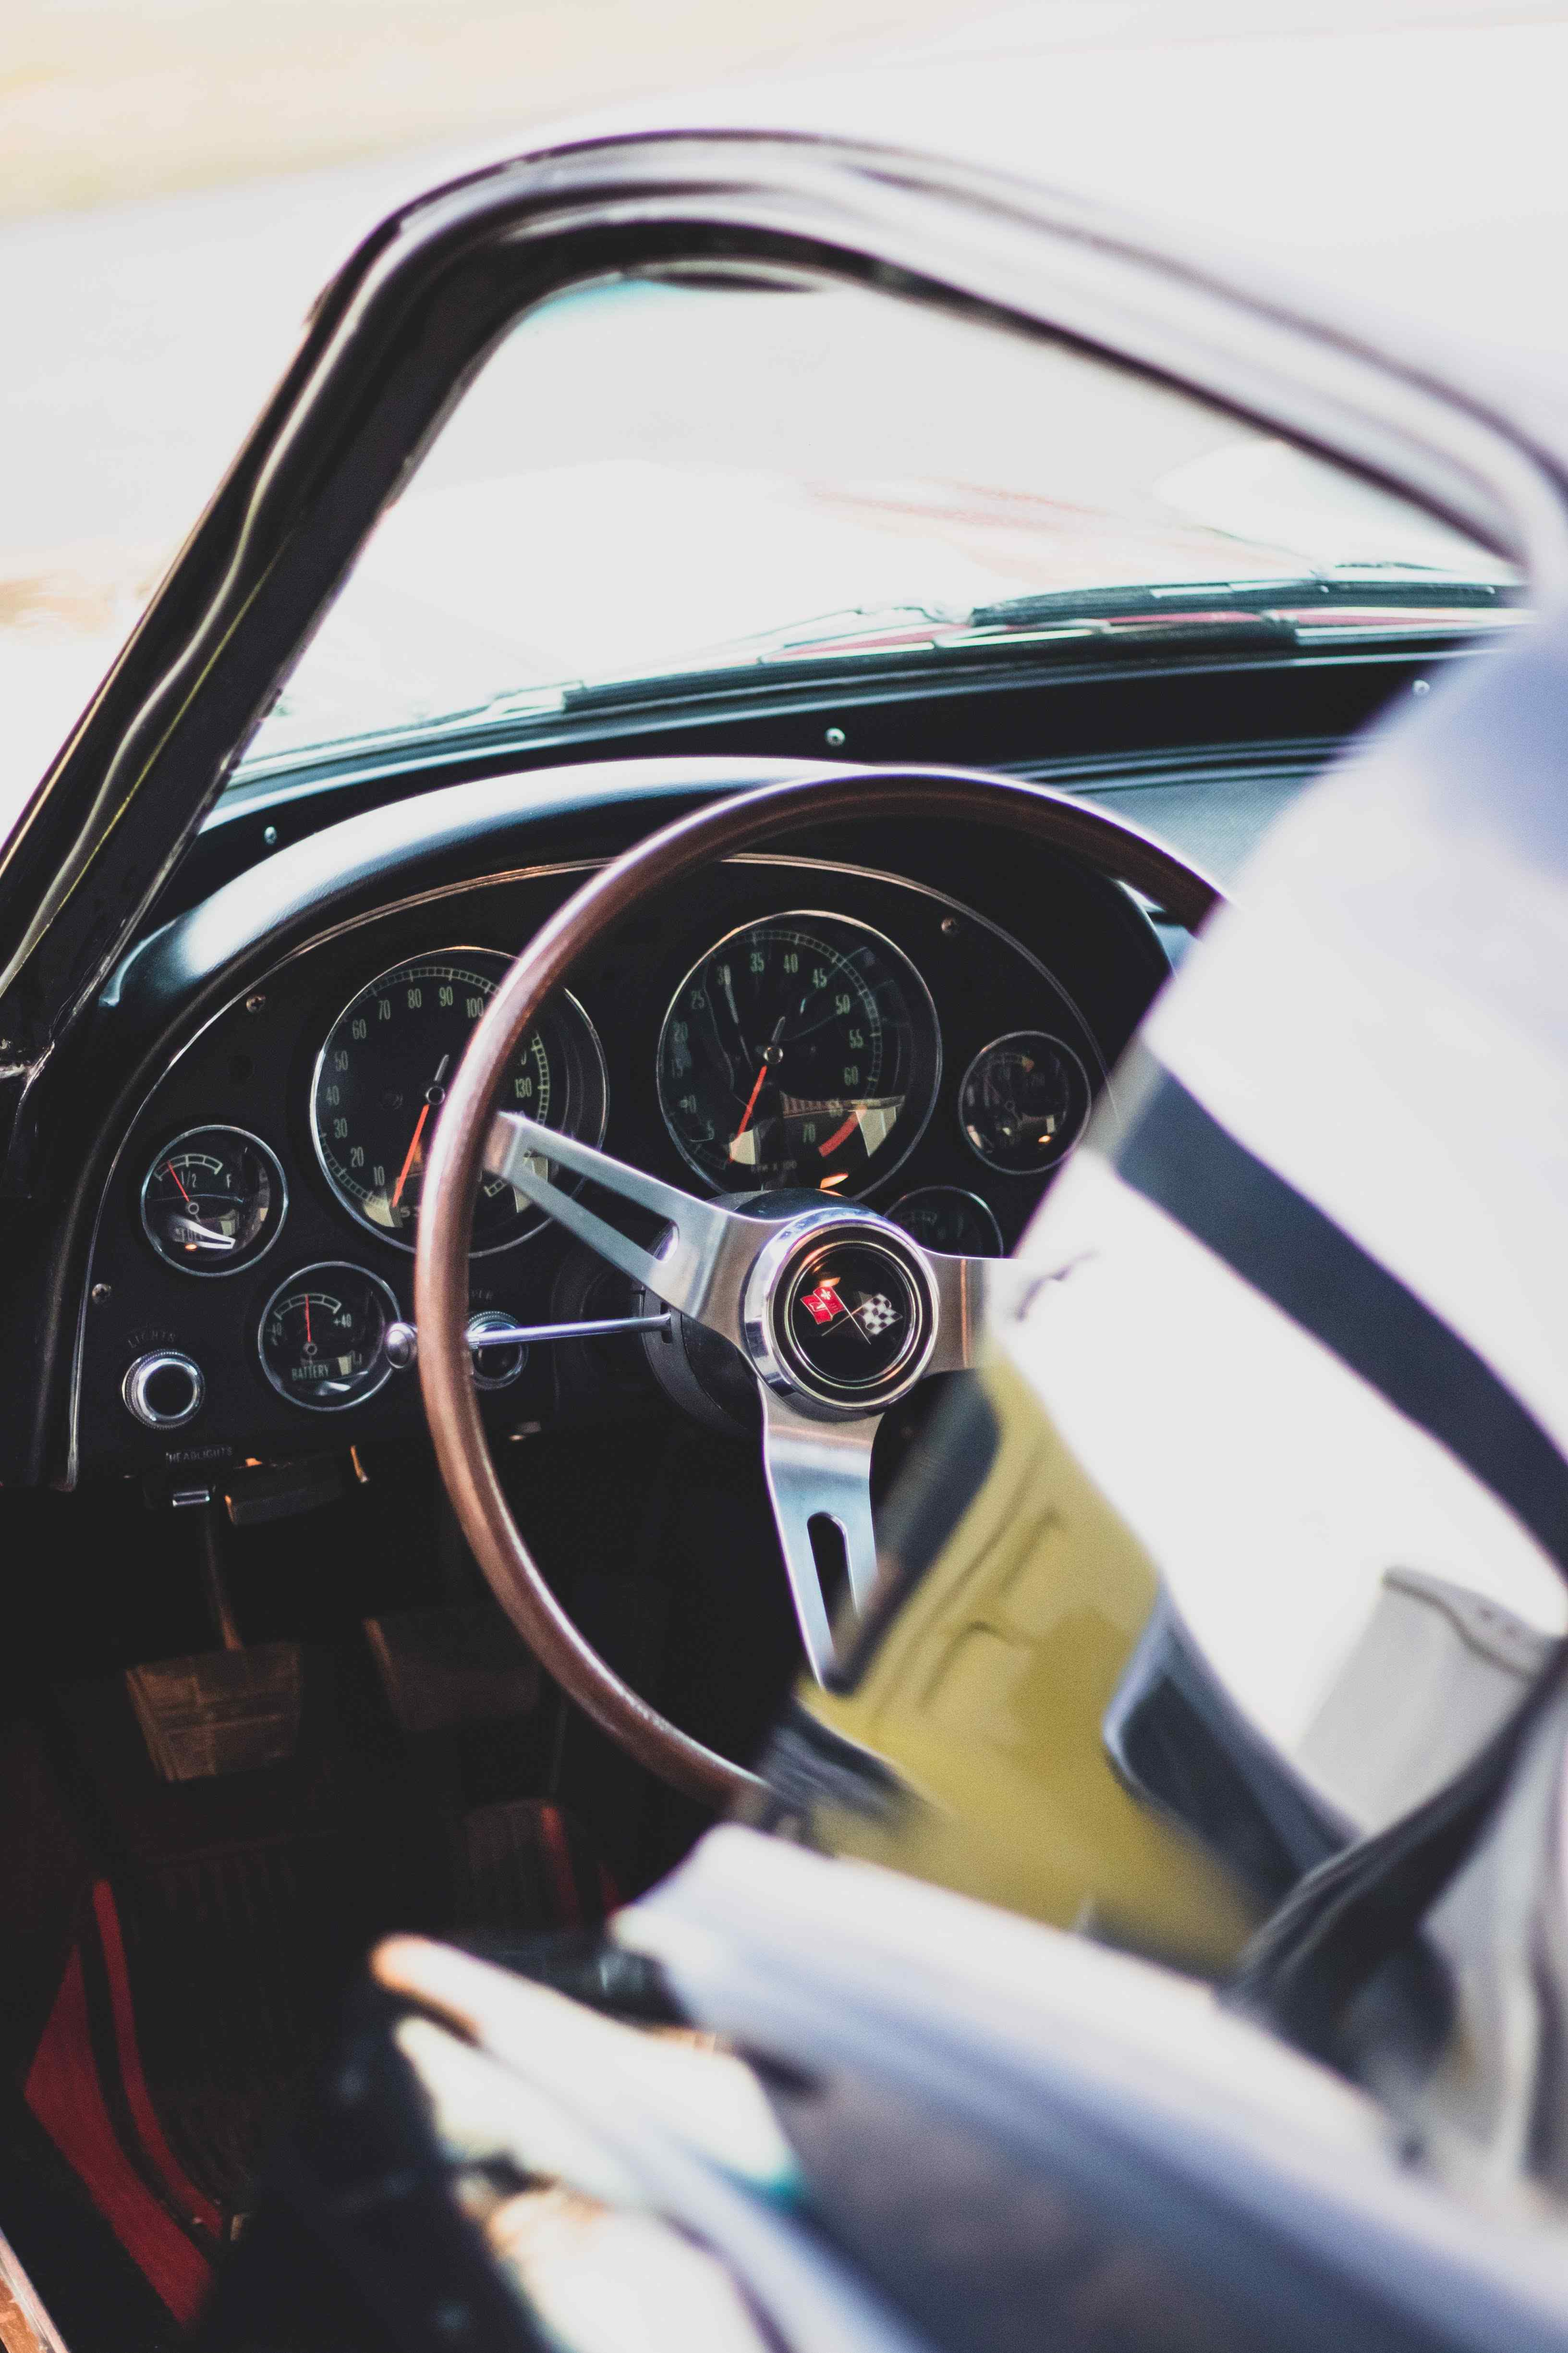
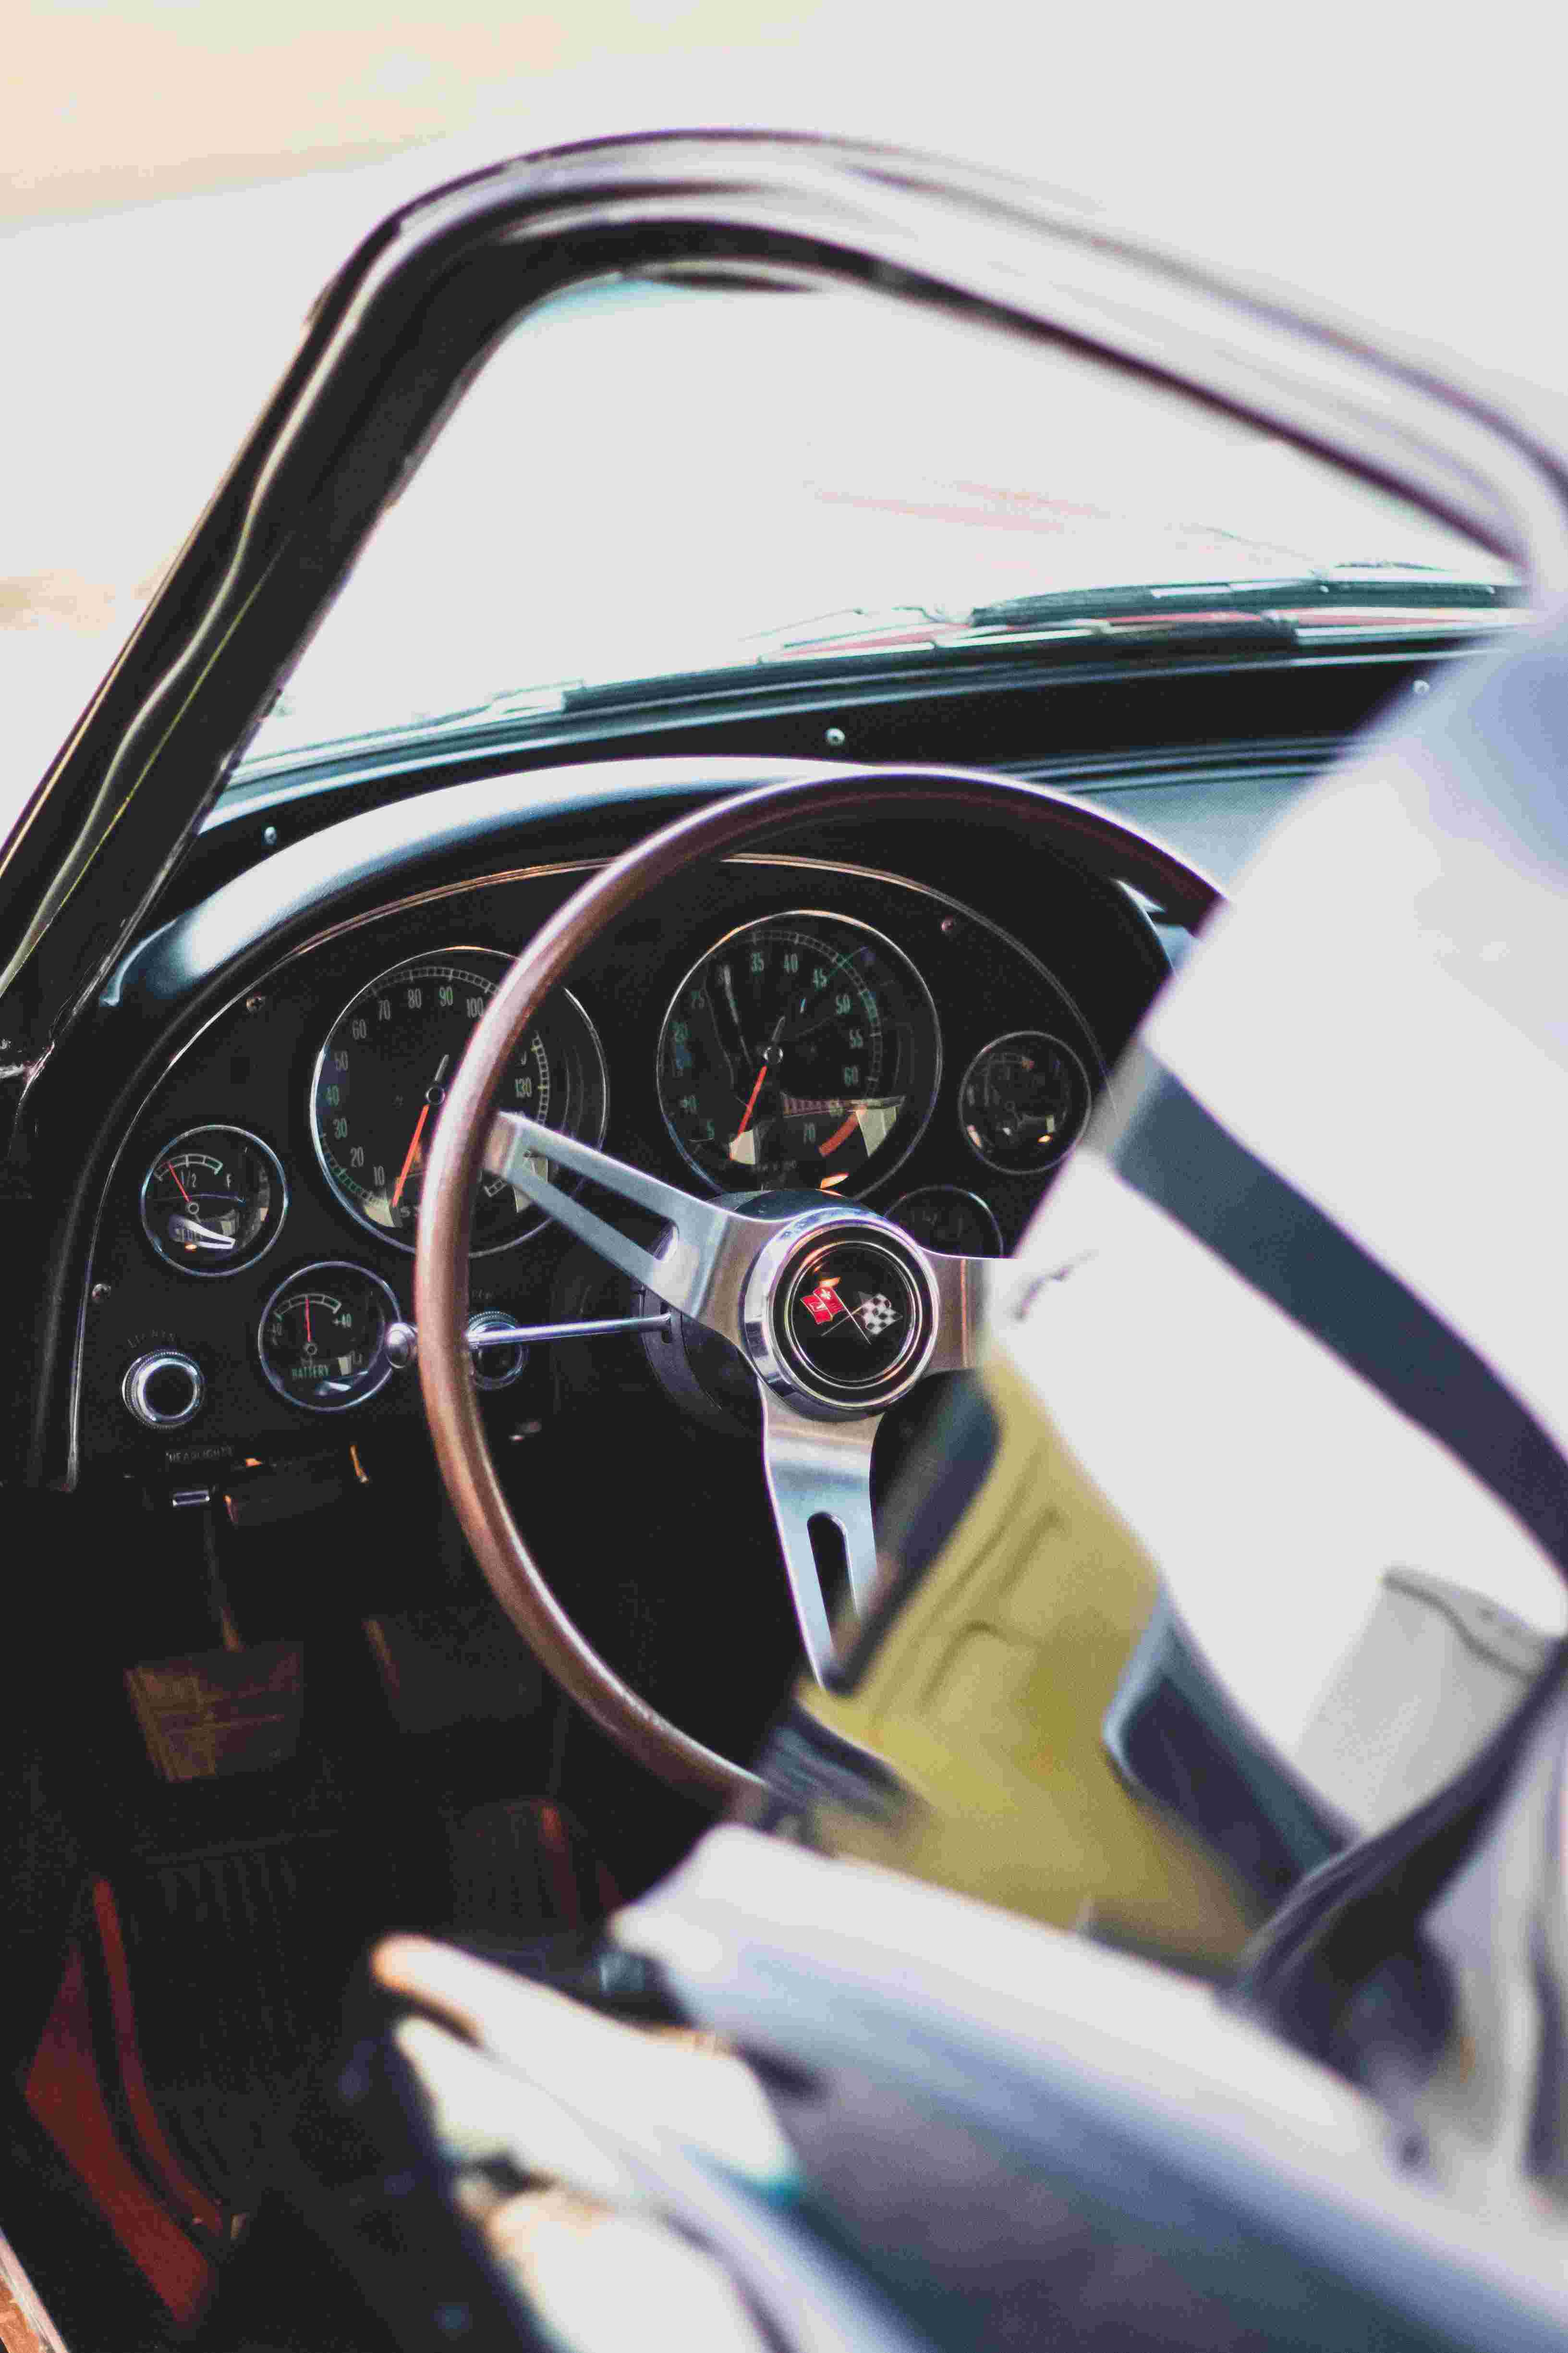
Login page buildout and images resized

Changed region(s): [[0.4998, 0.4998, 0.5311, 0.5623]]

diff --git a/src/Pages/Services/PersonalService.js b/src/Pages/Services/PersonalService.js
@@ -12,6 +12,12 @@ import { MdOutlinePhotoCameraFront } from "react-icons/md";
 import { MdFaceRetouchingNatural } from "react-icons/md";
 import { GiLovers } from "react-icons/gi";
 
+import portraitImg from '../../img/ServiceImgs/portrait-img.jpg';
+import professionalPic from '../../img/ServiceImgs/professionalPic.jpg';
+import familyPic from '../../img/ServiceImgs/familyPic.jpg';
+import engagementPic from '../../img/ServiceImgs/engagementPic.jpg';
+import eventPic from '../../img/ServiceImgs/eventPic.jpg';
+
 function PersonalService() {
   // scroll animation
   const location = useLocation();
@@ -55,9 +61,11 @@ function PersonalService() {
               title="Individual Portrait Photoshoots"
               frontData={{
                 icon: <MdOutlinePhotoCameraFront />,
+                img: portraitImg
               }}
               backData={{
-                paragraph: "Capture your essence with our individual portrait photoshoots. Whether it's for personal or professional use, our experienced photographers will ensure you look your best. From choosing the perfect backdrop to guiding you through poses, we'll create stunning portraits that reflect your unique personality and style."
+                paragraph: "Capture your essence with our individual portrait photoshoots. Whether it's for personal or professional use, our experienced photographers will ensure you look your best. From choosing the perfect backdrop to guiding you through poses, we'll create stunning portraits that reflect your unique personality and style.",
+                
               }}
               size="vertical"
             />
@@ -67,6 +75,7 @@ function PersonalService() {
               title="Professional Head Shots"
               frontData={{
                 icon: <MdFaceRetouchingNatural />,
+                img: professionalPic
               }}
               backData={{
                 paragraph: "Elevate your professional image with our expert headshot services. Our team specializes in capturing your unique essence, ensuring you make a lasting impression in any professional setting. With meticulous attention to detail and a keen eye for aesthetics, we guarantee headshots that exude professionalism and confidence."
@@ -78,6 +87,7 @@ function PersonalService() {
               title="Family Portrait Sessions"
               frontData={{
                 icon: <MdFamilyRestroom />,
+                img: familyPic
               }}
               backData={{
                 paragraph: "Capture cherished moments with our family portrait sessions. Our skilled photographers specialize in creating beautiful and meaningful images that reflect the love and connection within your family. Whether it's a formal studio shoot or a relaxed outdoor session, we'll ensure you have timeless photos to treasure for generations."
@@ -93,6 +103,7 @@ function PersonalService() {
               title="Engagement & Couple Portrait Sessions"
               frontData={{
                 icon: <GiLovers />,
+                img: engagementPic
               }}
               backData={{
                 paragraph: "Celebrate your love story with our engagement and couple portrait sessions. Our talented photographers specialize in capturing the unique connection and chemistry between you and your partner. Whether you prefer a romantic outdoor setting or a cozy indoor shoot, we'll work with you to create stunning images that reflect your love and personalities."
@@ -115,6 +126,7 @@ function PersonalService() {
               title="Event Photography & Videography"
               frontData={{
                 icon: <MdOutlineCelebration />,
+                img: eventPic
               }}
               backData={{
                 paragraph: 'Get your business online with our customized website design and development services. Our expert team creates websites tailored to your needs and goals.'

diff --git a/src/Components/Header/Header.js b/src/Components/Header/Header.js
@@ -28,7 +28,7 @@ const Header = () => {
     };
   }, []);
 
-  return <header className={`fixed w-full px-10 z-30 h-20 flex items-center shadow-lg ${isScrolled ? 'bg-white text-black' : 'bg-[rgba(0,0,0,0.1)] text-white'} backdrop-blur-sm transition-all duration-700 border-b border-gray-500`}>
+  return <header className={`fixed w-full px-10 z-30 h-20 flex items-center shadow-lg ${isScrolled ? 'bg-white text-black' : 'bg-[rgba(9,12,22,0.34)] text-white'} backdrop-blur-sm transition-all duration-700 border-b border-gray-500`}>
     <div className='font-primary flex flex-col lg:flex-row lg:items-center w-full justify-between'>
       <nav className='hidden lg:flex gap-x-10 px-10 text-2xl'>
         <a href='/#about' key='/#about' className='cursor-pointer hover:scale-110'>About</a>

diff --git a/src/Components/WrapperComponents/withHoverEffect.js b/src/Components/WrapperComponents/withHoverEffect.js
@@ -29,8 +29,8 @@ export function withHoverEffect(Component) {
             const elementCenterY = elementHeight / 2;
             const mouseX = event.clientY - elementRect.y - elementCenterY;
             const mouseY = event.clientX - elementRect.x - elementCenterX;
-            const degreeX = (mouseX / elementWidth) * 4; //The number is the rotation factor
-            const degreeY = (mouseY / elementHeight) * 3; //The number is the rotation factor
+            const degreeX = (mouseX / elementWidth) * 7; //The number is the rotation factor
+            const degreeY = (mouseY / elementHeight) * 7; //The number is the rotation factor
             setRotateXaxis(degreeX);
             setRotateYaxis(degreeY);
         };

diff --git a/src/Pages/Home/About.js b/src/Pages/Home/About.js
@@ -47,7 +47,7 @@ const About = () => {
             </div>
           </AnimatedComponent>
         </div>
-        <div className="mx-auto text-center py-16">
+        {/* <div className="mx-auto text-center py-16">
           <h2 className='text-2xl lg:text-3xl font-bold mb-8'>Meet the Team</h2>
           <div className="grid grid-cols-1 sm:grid-cols-2 gap-8">
             <div className="flex flex-col items-center">
@@ -66,7 +66,7 @@ const About = () => {
             </div>
 
           </div>
-        </div>
+        </div> */}
       </div>
     </section>
   );

diff --git a/src/Components/FlipCard.js b/src/Components/FlipCard.js
@@ -30,7 +30,7 @@ const FlipCard = ({ title, frontData, backData, size }) => {
                     animate={{ rotateY: isFlipped ? 180 : 0 }}
                     transition={{ duration: 0.5 }}
                 >
-                    <div className='absolute inset-0 rounded-lg bg-[rgba(10,10,14,0.79)] group group-hover:opacity-90 transition-all'></div>
+                    <div className='absolute inset-0 rounded-lg bg-[rgba(10,10,14,0.79)] group group-hover:opacity-80 transition-all'></div>
 
                     {/* {Icon} */}
                     {cardTitle}

diff --git a/src/Pages/Services/AutomotiveService.js b/src/Pages/Services/AutomotiveService.js
@@ -67,7 +67,7 @@ function AutomotiveService() {
               }}
               backData={{
                 paragraph: "Capture the essence of your vehicle with our personalized photoshoots. Our experienced photographers will ensure it looks stunning, whether for personal enjoyment or professional purposes."
-
+              
               }}
               size="vertical"
             />
